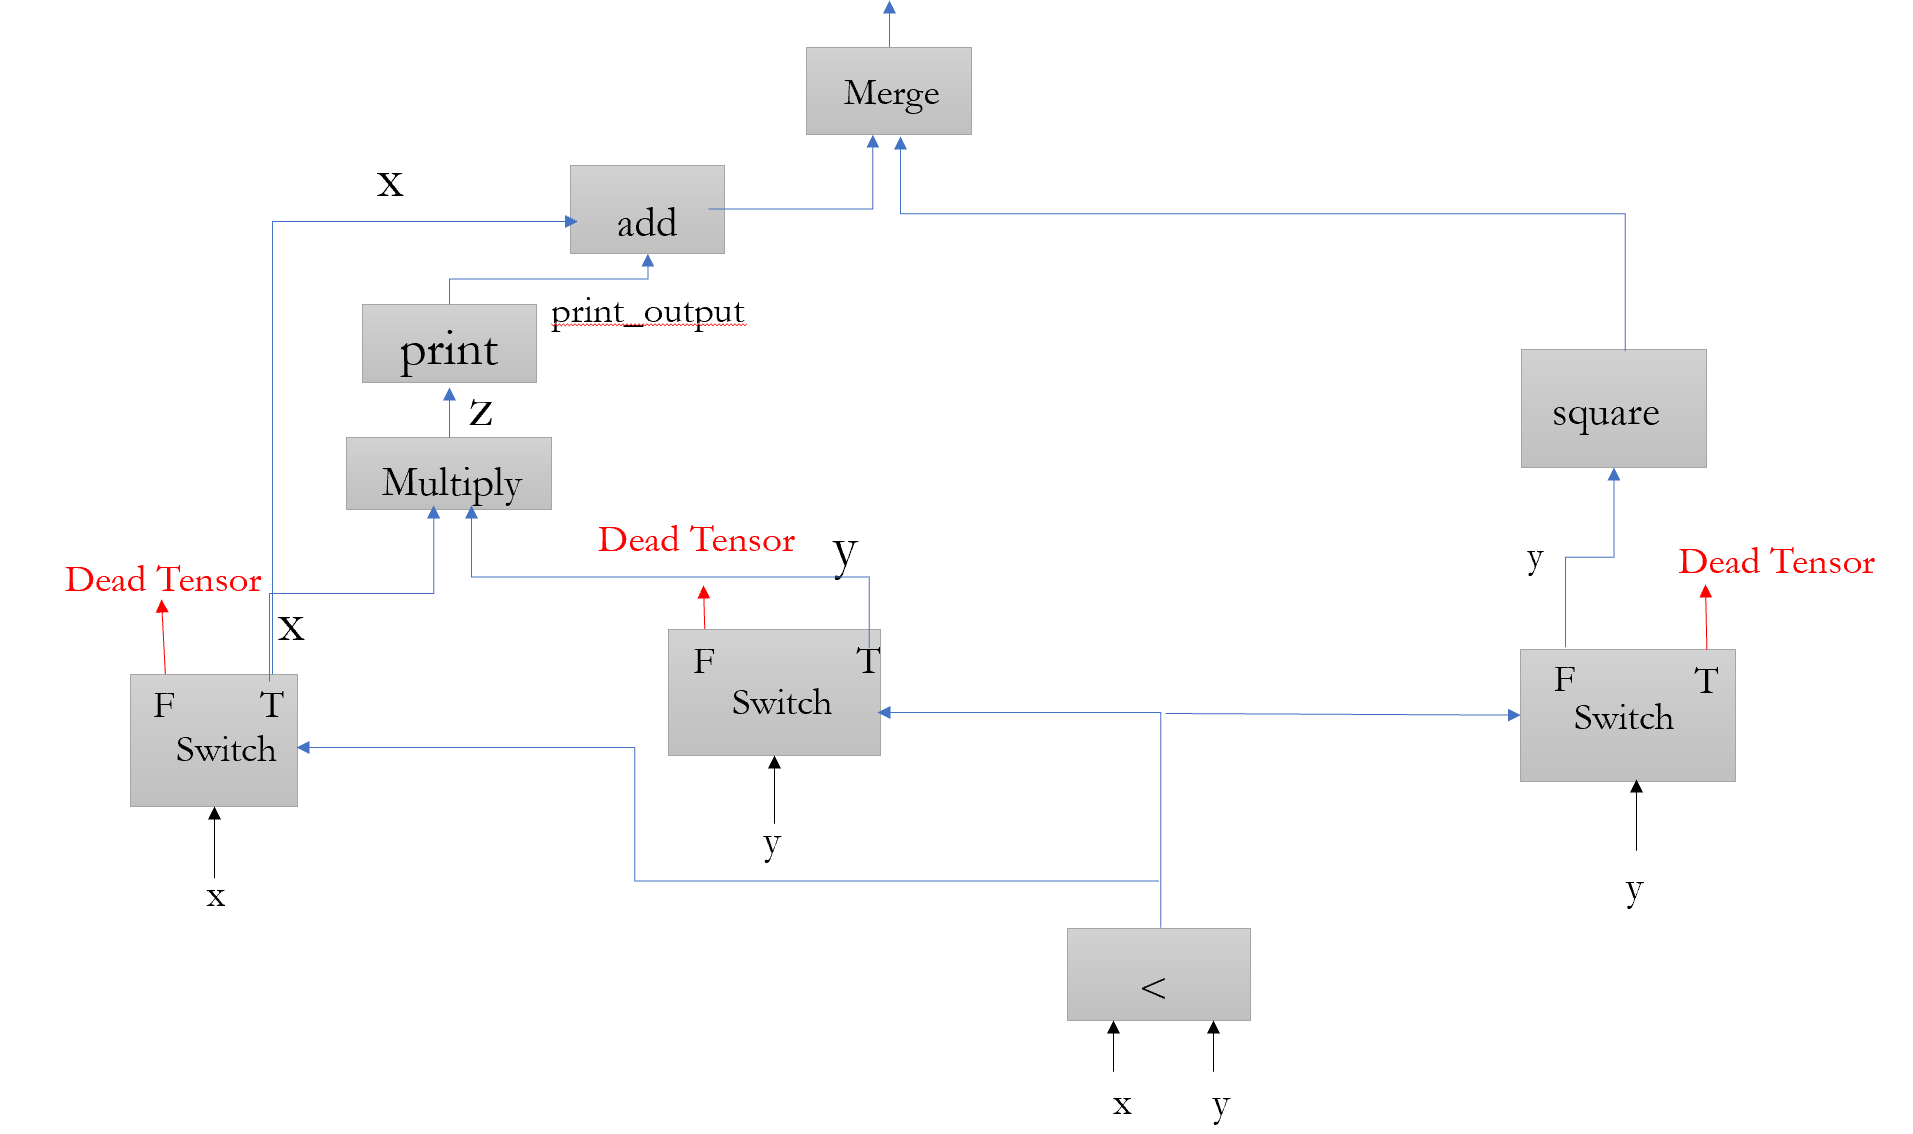
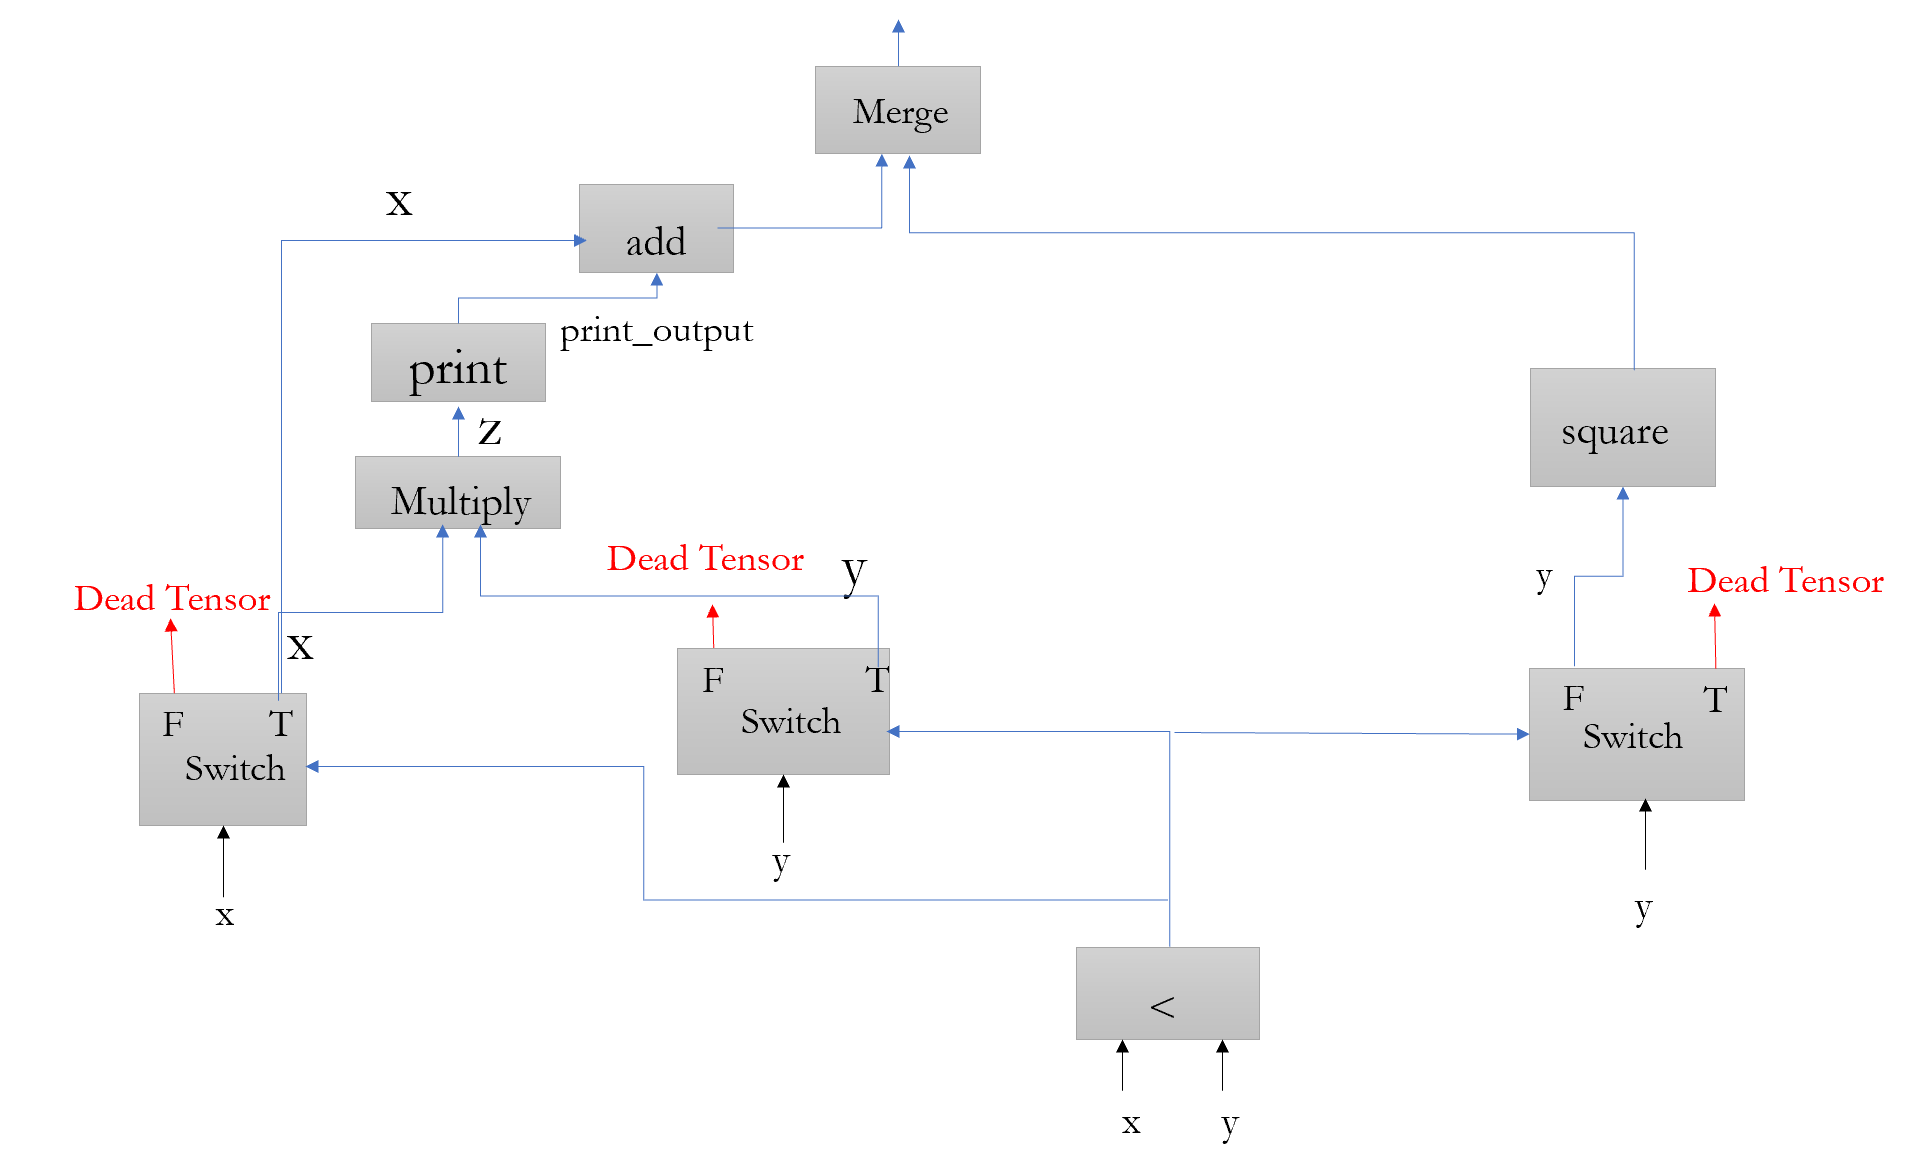
adding rest of the tutorial up to end

diff --git a/_posts/2019-05-01-TensorFlow_Condition.md b/_posts/2019-05-01-TensorFlow_Condition.md
@@ -167,7 +167,118 @@ tf.cond(x < y, lambda: tf.add(x, z), lambda: tf.square(y))
 I have constructed the computational graph for this simple example, and you can find it in figure 4.
 
 <div class="imgcap">
-<img src="/assets/TensorFlow_Condition/4_tf_cond.PNG" height="300" class="center">
+<img src="/assets/TensorFlow_Condition/4_tf_cond.PNG" height="400" class="center">
 </div>
 
+The first thing to mention is that there is a switch for each input. By input, I mean the arguments of true and false functions within the tf.cond(). In this example, there are three inputs (x, y, and z), 
+and as a result, there are three switches in the computational graph.
 
+For true_fn, the switch outputs are emitted from the true branch. 
+For false_fn, the switch outputs are emitted from the false branch. 
+Based on the condition result(whether x is smaller than y or not), the predicate can be true or false, and one of the branches (left or right) will be
+executed. It is important to note that, both tf.add() and tf.square() operations come after the switches. 
+As a result, in this example, only one of them will be executed and the other one remains untouched.
+
+In addition, I think this picture is a little wrong. I think dead tensors propagate through the add or square operation until they meet the Merge ops. 
+Merge ops remove the dead tensors and only provides one output.
+
+Hopefully, you have learned something about tf.cond() up to know, and you have become more comfortable for working with this API. 
+I am going to end this post by providing one controversial example and explain how something we have learned so far can help us to understand the inner working. 
+In the TensorFlow website, you can find the following statement:
+
+'''
+**WARNING:** Any Tensors or Operations created outside of true_fn and false_fn will be executed regardless of which branch is selected at runtime. 
+Although this behavior is consistent with the dataflow model of TensorFlow, it has frequently surprised users who expected a lazier semantics.
+'''
+
+So, I a going to provide an example to clarify what this warning says. I am providing two examples: in the first one all the operations are defined within the true_fn and false_fn, and in the second example, some operations are defined outside this functions. 
+I am going to construct and visualize the computational graph to illustrate why this behavior occurs.
+
+**Example 1:**
+
+```
+import tensorflow as tf
+x = tf.constant(3.0)
+y = tf.constant(2.0)
+def true_fn():
+    z = tf.multiply(x, y)
+    print_output = tf.Print(z, [z], "The value I want to print!!")
+    return tf.add(x, print_output)
+def false_fn():
+    return tf.square(y)
+result = tf.cond(x < y, true_fn, false_fn)
+with tf.Session() as sess:
+    print(sess.run(result))
+## output: 4.0
+'''
+if you keep everything the same and just changing x to x = tf.constant(1.0), the predicate becomes true and the output will be as the following:
+3.0
+The value I want to print!![2]
+'''
+```
+
+The important point here to focus on is that all the Tensors and operations have been created inside the functions. 
+So, there are three input arguments and consequently, there exist three switches in the graph. 
+Constructing a computational graph for this case will be easy.
+
+<div class="imgcap">
+<img src="/assets/TensorFlow_Condition/5_tf.cond_ex1.PNG" height="300" class="center">
+</div>
+
+if the predicate becomes true (x will be smaller than y), the true_fn (left branch) will be executed and the right one does not execute and 
+remain untouched (and Vice versa).
+
+Note: I have used tf.Print() function in order to print something in the computational graph and have access to the value of a tensor in the graph. Using tf.Print() is a little tricky and I am not going to explain here how it works. 
+There is an excellent blog post about this function [here](https://towardsdatascience.com/using-tf-print-in-tensorflow-aa26e1cff11e).
+
+**Note:** When the predicate is false (x > y), the false_fn (right branch) is executed, and as a result, tf.Print() receives only the dead tensors and does not print anything.
+
+
+**Example 2:**
+
+The example 1 was a little boring and the result was completely what we expected. Things get more interesting in this example.
+
+```
+x = tf.constant(3.0)
+y = tf.constant(2.0)
+z = tf.multiply(x, y)
+print_output = tf.Print(z, [z], "The value I want to print!!")
+def true_fn():
+    return tf.add(x, print_output)
+def false_fn():
+    return tf.square(y)
+result = tf.cond(x < y, true_fn, false_fn)
+with tf.Session() as sess:
+    print(sess.run(result))
+'''
+output:
+4.0
+The value I want to print!![6]
+'''
+```
+
+In this example, the predicate is false (x > y) and we expect that the false_fn executes and true_fn remains untouched. 
+However, we can see that output contains “The value I want to print!![6]” which belongs to the true_fn. 
+At first, maybe this behavior seems a little weird, but it is completely consistent with what we have seen and understood so far. 
+Some of the tensors (z and print_output) have defined outside the function and as a result, they will be put before the switch in the computational graph. 
+let’s draw the graph to make this point clear:
+
+<div class="imgcap">
+<img src="/assets/TensorFlow_Condition/6_tf.cond_ex2.PNG" height="300" class="center">
+</div>
+
+You can see in figure 6 that multiply and prints ops are outside (before) the switches. 
+So, no matter the predicate is true or false, these two operations will be executed in both cases.
+
+So, by understanding switch and merge and realizing how tf.cond() works, hopefully, you can see this behavior is consistent with the dataflow model of TensorFlow and there is nothing wrong about it.
+
+I m going to finish this post here. Thanks for reading the post up to the end. Please let me know if I have made a mistake or something is wrong. 
+Hopefully, I am going to cover tf.while_loop() in the subsequent post.
+
+### References
+
+- Inside [TensorFlow](https://youtu.be/IzKXEbpT9Lg): Control Flow
+- Tensorflow, node which is [dead](https://stackoverflow.com/questions/46680462/tensorflow-node-which-is-dead)
+- How to use the function merge and switch of [TensorFlow?](https://stackoverflow.com/questions/47107994/how-to-use-the-function-merge-and-switch-of-tensorflow)
+- [Official](https://www.tensorflow.org/api_docs/python/tf/cond) TensorFlow [documentation](https://www.tensorflow.org/api_docs/cc/class/tensorflow/ops/switch)
+- [Using](https://towardsdatascience.com/using-tf-print-in-tensorflow-aa26e1cff11e) tf.Print() in TensorFlow
